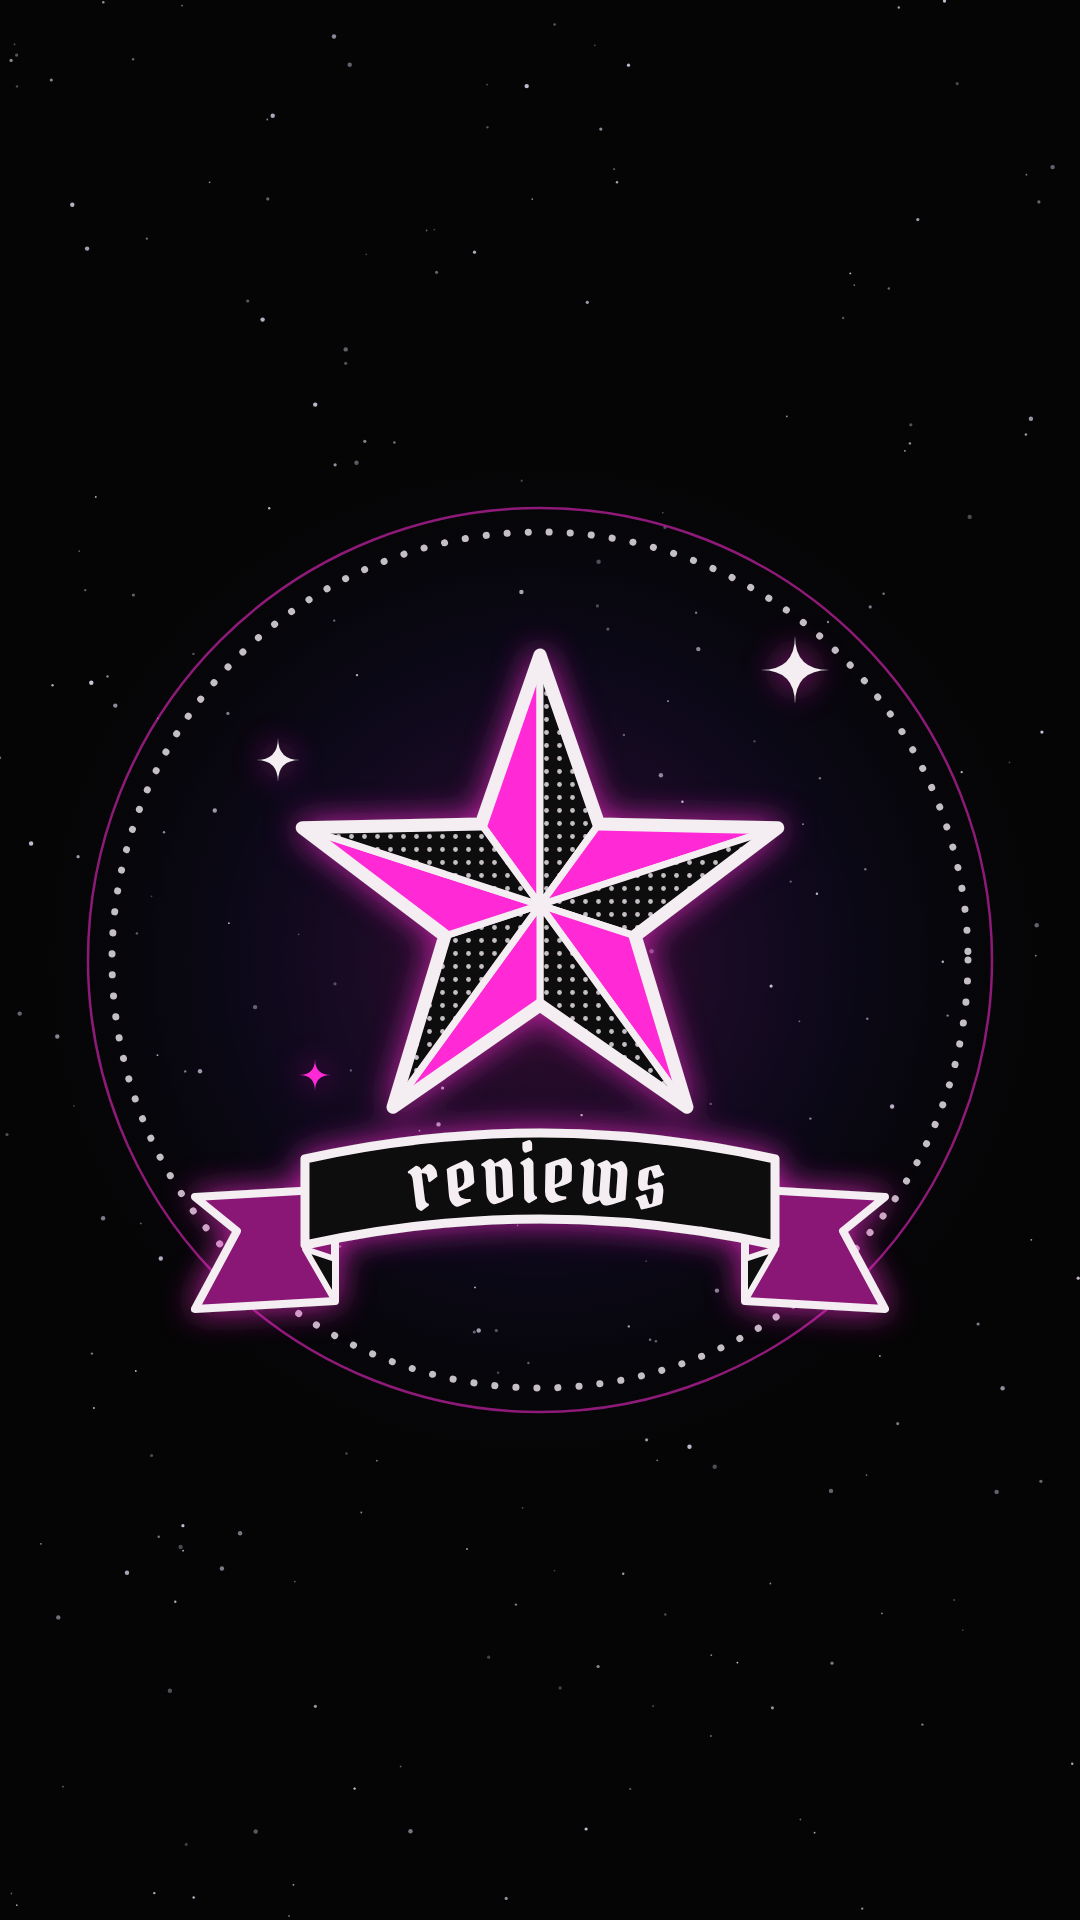
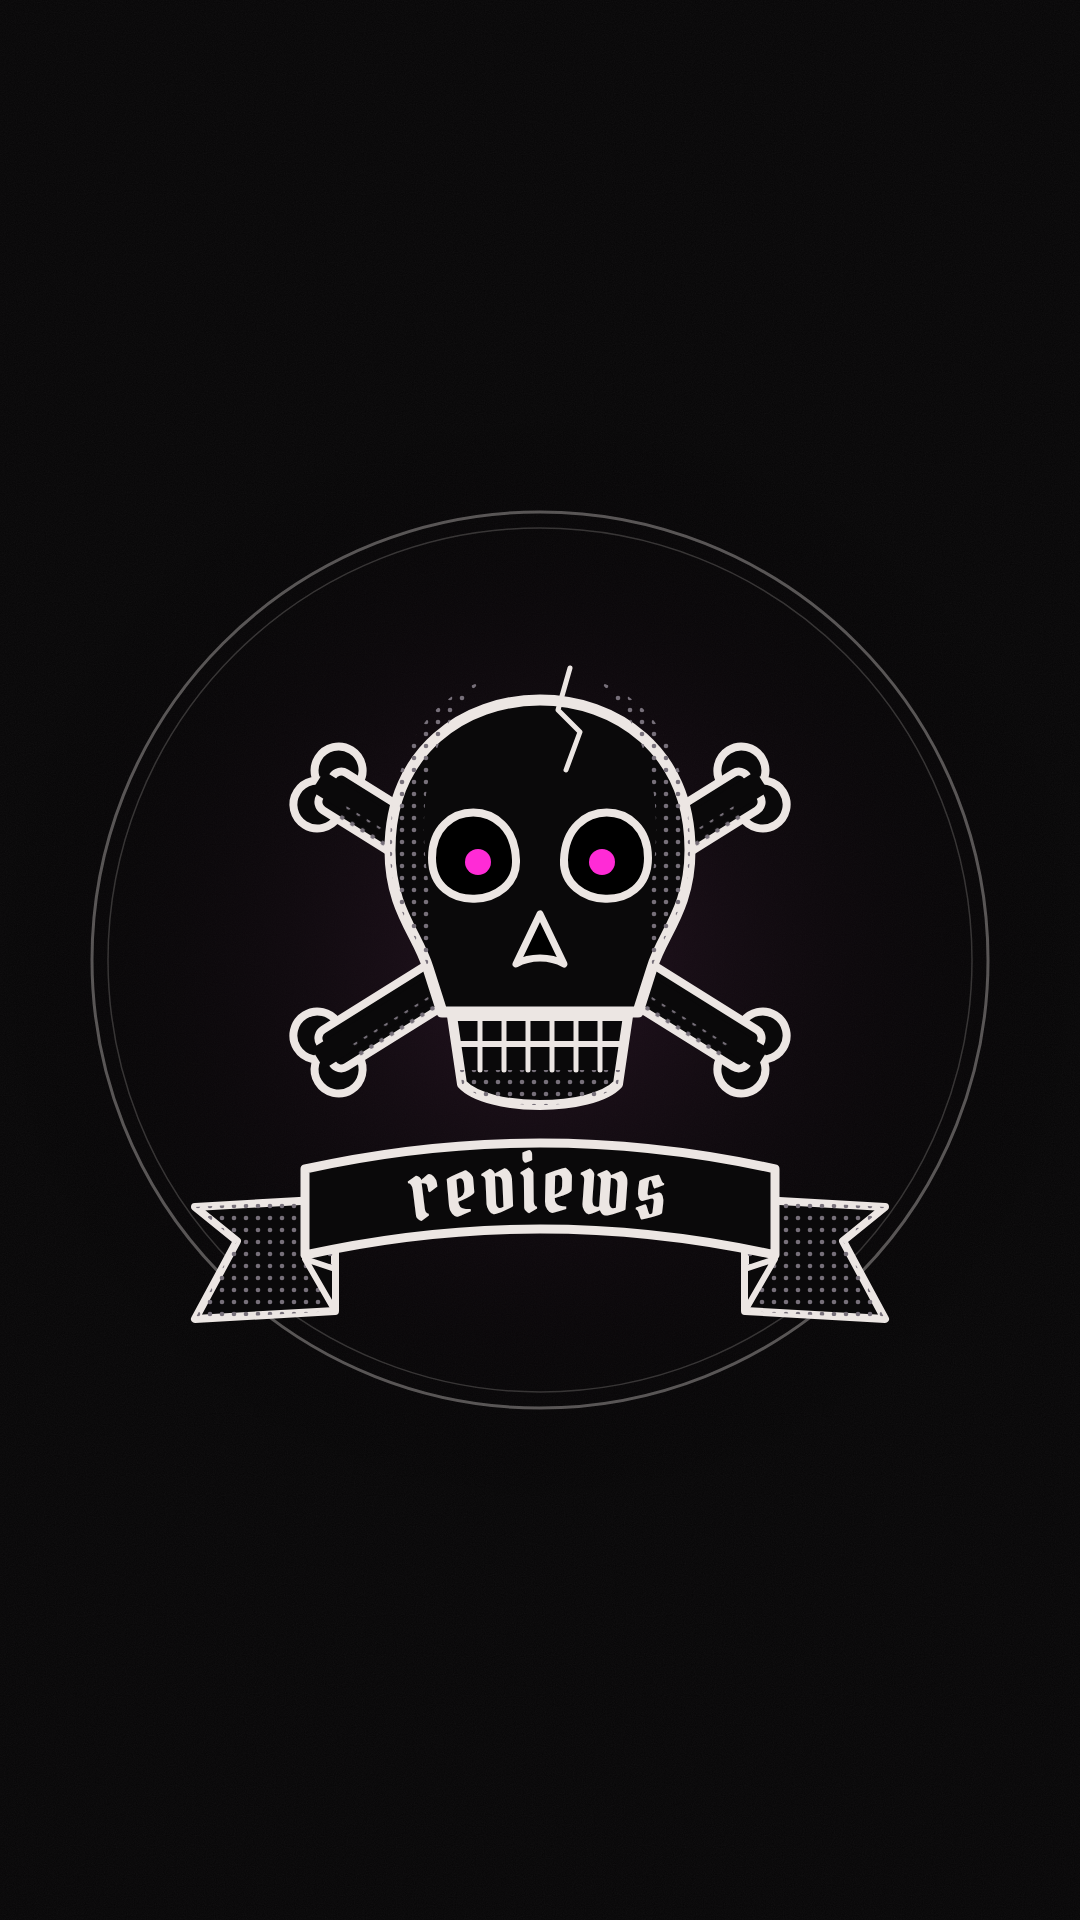
Highlight covers: dark flash set (skull, dagger, fanged snake, bat), no glow or sparkles
Claude-Session: https://claude.ai/code/session_01UxfUGVuyJAH9CatYfRoXCg

diff --git a/brand/highlight-covers/covers.html b/brand/highlight-covers/covers.html
@@ -11,144 +11,146 @@
 </head>
 <body>
 <script>
-// Tattoo-flash highlight covers. Art sits inside the centre circle (radius ~420) that Instagram shows.
-const CREAM = "#f4eef2", PINK = "#ff2bd6", DEEP = "#8a1675", INK = "#0b090c";
-const L = 'stroke="' + CREAM + '" stroke-linejoin="round" stroke-linecap="round"';
-
-function rand(seed) { return () => (seed = (seed * 16807) % 2147483647) / 2147483647; }
-
-function sparkle(x, y, s, fill = CREAM) {
-  return `<path d="M${x},${y - s} Q${x},${y} ${x + s},${y} Q${x},${y} ${x},${y + s} Q${x},${y} ${x - s},${y} Q${x},${y} ${x},${y - s}Z" fill="${fill}"/>`;
-}
+// Dark traditional flash: black & grey linework, stipple shading, small hits of pink. No glow.
+// Art sits inside the centre circle (radius ~420) that Instagram shows.
+const CREAM = "#ece6e3", GREY = "#77707a", PINK = "#ff2bd6", INK = "#0a090a";
+const L = (w) => `stroke="${CREAM}" stroke-width="${w}" stroke-linejoin="round" stroke-linecap="round"`;
+const shade = (d) => `<path d="${d}" fill="url(#dots)"/>`;
 
 function banner(y, text, w, size = 80) {
   const h = 112, x0 = -w / 2, x1 = w / 2, a = 26;
   const tail = (s) => {
     const xe = s * (w / 2), xo = s * (w / 2 + 110);
-    return `<path d="M${xe - s * 30},${y - h / 2 + 30} L${xo},${y - h / 2 + 38} L${xo - s * 42},${y + 16} L${xo},${y + h / 2 + 38} L${xe - s * 30},${y + h / 2 + 30}Z" fill="${DEEP}" ${L} stroke-width="8"/>
-            <path d="M${xe},${y + h / 2 - a + 4} L${xe - s * 30},${y + h / 2 + 30} L${xe - s * 30},${y + h / 2 - 12}Z" fill="${INK}" ${L} stroke-width="6"/>`;
+    return `<path d="M${xe - s * 30},${y - h / 2 + 30} L${xo},${y - h / 2 + 38} L${xo - s * 42},${y + 16} L${xo},${y + h / 2 + 38} L${xe - s * 30},${y + h / 2 + 30}Z" fill="${INK}" ${L(8)}/>
+            ${shade(`M${xe - s * 30},${y - h / 2 + 30} L${xo},${y - h / 2 + 38} L${xo - s * 42},${y + 16} L${xo},${y + h / 2 + 38} L${xe - s * 30},${y + h / 2 + 30}Z`)}
+            <path d="M${xe},${y + h / 2 - a + 4} L${xe - s * 30},${y + h / 2 + 30} L${xe - s * 30},${y + h / 2 - 12}Z" fill="${INK}" ${L(6)}/>`;
   };
   return `${tail(-1)}${tail(1)}
-    <path d="M${x0},${y - h / 2} Q0,${y - h / 2 - a * 2} ${x1},${y - h / 2} L${x1},${y + h / 2 - a} Q0,${y + h / 2 - a * 3} ${x0},${y + h / 2 - a}Z" fill="${INK}" ${L} stroke-width="9"/>
+    <path d="M${x0},${y - h / 2} Q0,${y - h / 2 - a * 2} ${x1},${y - h / 2} L${x1},${y + h / 2 - a} Q0,${y + h / 2 - a * 3} ${x0},${y + h / 2 - a}Z" fill="${INK}" ${L(9)}/>
     <path id="bp${y}${text.length}" d="M${x0 + 20},${y + 14} Q0,${y + 14 - a * 2} ${x1 - 20},${y + 14}" fill="none"/>
     <text font-family="Pirata" font-size="${size}" fill="${CREAM}" letter-spacing="3"><textPath href="#bp${y}${text.length}" startOffset="50%" text-anchor="middle">${text}</textPath></text>`;
 }
 
-function background(seed) {
-  const r = rand(seed);
-  let stars = "";
-  for (let i = 0; i < 240; i++) {
-    const x = -540 + r() * 1080, y = -960 + r() * 1920, s = [0.9, 1.2, 1.6, 2.2][Math.floor(r() * 4)];
-    stars += `<circle cx="${x.toFixed(1)}" cy="${y.toFixed(1)}" r="${s}" fill="#f0e4ff" opacity="${(0.25 + r() * 0.6).toFixed(2)}"/>`;
-  }
-  return `<rect x="-540" y="-960" width="1080" height="1920" fill="#050505"/>
-    <circle r="560" fill="url(#halo)"/>${stars}
-    <circle r="452" fill="none" stroke="${PINK}" stroke-width="2.5" opacity=".55"/>
-    <circle r="428" fill="none" stroke="${CREAM}" stroke-width="7" stroke-dasharray="0.1 21" stroke-linecap="round" opacity=".8"/>`;
+function background() {
+  return `<rect x="-540" y="-960" width="1080" height="1920" fill="#070607"/>
+    <rect x="-540" y="-960" width="1080" height="1920" filter="url(#grain)" opacity=".05"/>
+    <circle r="560" fill="url(#halo)"/>
+    <circle r="448" fill="none" stroke="${CREAM}" stroke-width="3" opacity=".35"/>
+    <circle r="432" fill="none" stroke="${CREAM}" stroke-width="1.5" opacity=".2"/>`;
 }
 
-// ---------------------------------------------------------------- 1. reviews: nautical star
-function nautical() {
-  const cy = -55, R = 250, r = 100;
-  const P = (rad, deg) => [rad * Math.cos(deg * Math.PI / 180), cy + rad * Math.sin(deg * Math.PI / 180)];
-  let s = "";
-  for (let i = 0; i < 5; i++) {
-    const tip = P(R, -90 + i * 72), inR = P(r, -54 + i * 72), inL = P(r, -126 + i * 72);
-    s += `<path d="M0,${cy} L${inL} L${tip}Z" fill="${PINK}" ${L} stroke-width="7"/>`;
-    s += `<path d="M0,${cy} L${tip} L${inR}Z" fill="${INK}" ${L} stroke-width="7"/>`;
-    s += `<path d="M0,${cy} L${tip} L${inR}Z" fill="url(#dots)" opacity=".8"/>`;
-  }
-  const outline = Array.from({ length: 10 }, (_, i) => P(i % 2 ? r : R, -90 + i * 36)).join(" L");
-  s += `<path d="M${outline}Z" fill="none" ${L} stroke-width="13"/>`;
-  s += `<circle cy="${cy}" r="10" fill="${CREAM}"/>`;
-  return s + sparkle(255, -290, 34) + sparkle(-262, -200, 22) + sparkle(-225, 115, 16, PINK) + banner(255, "reviews", 470);
+// ---------------------------------------------------------------- 1. reviews: skull & crossbones
+function bone(angle) {
+  const k = (x, y) => `<circle cx="${x}" cy="${y}" r="24" fill="${INK}" ${L(8)}/>`;
+  return `<g transform="rotate(${angle})">
+    ${k(-250, -20)}${k(-250, 20)}${k(250, -20)}${k(250, 20)}
+    <rect x="-252" y="-22" width="504" height="44" rx="10" fill="${INK}" ${L(8)}/>
+    <rect x="-262" y="-12" width="524" height="24" fill="${INK}"/>
+    ${shade("M-230,6 L230,6 L230,22 L-230,22Z")}
+  </g>`;
+}
+function skull() {
+  let s = `<g transform="translate(0,-40)">${bone(32)}${bone(-32)}`;
+  const cranium = "M-150,-70 C-150,-270 150,-270 150,-70 C150,-10 122,14 112,48 L98,92 L-98,92 L-112,48 C-122,14 -150,-10 -150,-70Z";
+  s += `<path d="${cranium}" fill="${INK}" ${L(11)}/>`;
+  s += shade("M-150,-70 C-150,-170 -110,-220 -60,-238 C-110,-190 -124,-120 -112,-40 C-104,10 -112,40 -112,48 C-122,14 -150,-10 -150,-70Z");
+  s += shade("M150,-70 C150,-170 110,-220 60,-238 C110,-190 124,-120 112,-40 C104,10 112,40 112,48 C122,14 150,-10 150,-70Z");
+  s += `<path d="M30,-252 L18,-210 L40,-188 L26,-150" fill="none" ${L(5)}/>`;
+  // jaw + teeth
+  s += `<path d="M-88,96 L88,96 L78,164 C52,192 -52,192 -78,164Z" fill="${INK}" ${L(10)}/>`;
+  s += shade("M-78,164 C-52,192 52,192 78,164 L80,150 L-80,150Z");
+  s += `<path d="M-84,124 L84,124" ${L(6)}/>`;
+  for (let x = -60; x <= 60; x += 24) s += `<path d="M${x},96 L${x},150" ${L(5)}/>`;
+  // sockets with pink eyes, nose
+  s += `<path d="M-108,-62 C-108,-122 -26,-124 -24,-60 C-22,-12 -108,-4 -108,-62Z" fill="#000" ${L(8)}/>`;
+  s += `<path d="M108,-62 C108,-122 26,-124 24,-60 C22,-12 108,-4 108,-62Z" fill="#000" ${L(8)}/>`;
+  s += `<circle cx="-62" cy="-58" r="13" fill="${PINK}"/><circle cx="62" cy="-58" r="13" fill="${PINK}"/>`;
+  s += `<path d="M0,-6 L-24,44 C-10,36 10,36 24,44Z" fill="#000" ${L(7)}/>`;
+  s += `</g>`;
+  return s + banner(265, "reviews", 470);
 }
 
-// ---------------------------------------------------------------- 2. highlights: flash gem
-function gem() {
-  const yT = -205, yG = -85, cul = 205;
-  const T = [-120, -40, 40, 120].map(x => [x, yT]);
-  const G = [-245, -122, 0, 122, 245].map(x => [x, yG]);
-  const C = [0, cul];
-  const fills = [PINK, INK, "#ff86e8", INK, PINK, INK, "#ff86e8"];
-  const crown = [[G[0], T[0], G[1]], [T[0], T[1], G[1]], [G[1], T[1], G[2]], [T[1], T[2], G[2]],
-                 [G[2], T[2], G[3]], [T[2], T[3], G[3]], [G[3], T[3], G[4]]];
-  let s = "";
-  crown.forEach((t, i) => {
-    s += `<path d="M${t.join(" L")}Z" fill="${fills[i]}" ${L} stroke-width="7"/>`;
-    if (fills[i] === INK) s += `<path d="M${t.join(" L")}Z" fill="url(#dots)" opacity=".75"/>`;
-  });
-  const pav = [[G[0], G[1], C], [G[1], G[2], C], [G[2], G[3], C], [G[3], G[4], C]];
-  const pf = [DEEP, PINK, INK, DEEP];
-  pav.forEach((t, i) => {
-    s += `<path d="M${t.join(" L")}Z" fill="${pf[i]}" ${L} stroke-width="7"/>`;
-    if (pf[i] === INK) s += `<path d="M${t.join(" L")}Z" fill="url(#dots)" opacity=".75"/>`;
-  });
-  s += `<path d="M${[T[0], T[3], G[4], C, G[0]].join(" L")}Z" fill="none" ${L} stroke-width="13"/>`;
-  // shine
-  s += `<path d="M-200,-95 L-170,-95 L-112,40 L-128,48Z" fill="${CREAM}" opacity=".85"/>`;
-  s += `<path d="M-100,-193 L-80,-193 L-96,-120 L-112,-120Z" fill="${CREAM}" opacity=".85"/>`;
-  return s + sparkle(225, -265, 52) + sparkle(-250, -250, 26) + sparkle(255, 60, 20, PINK) + banner(285, "highlights", 540);
+// ---------------------------------------------------------------- 2. highlights: dagger
+function dagger() {
+  let s = `<g transform="translate(0,-78)">`;
+  s += `<circle cx="0" cy="-318" r="30" fill="${INK}" ${L(9)}/>`;
+  s += shade("M-20,-318 A20,20 0 0,0 20,-318Z");
+  s += `<rect x="-28" y="-292" width="56" height="128" rx="8" fill="${INK}" ${L(9)}/>`;
+  for (let y = -278; y < -170; y += 22) s += `<path d="M-26,${y + 16} L26,${y}" ${L(5)}/>`;
+  s += `<path d="M-150,-168 C-128,-190 -60,-176 0,-178 C60,-176 128,-190 150,-168 C128,-142 60,-150 0,-146 C-60,-150 -128,-142 -150,-168Z" fill="${INK}" ${L(9)}/>`;
+  s += `<circle cx="-158" cy="-168" r="18" fill="${INK}" ${L(8)}/><circle cx="158" cy="-168" r="18" fill="${INK}" ${L(8)}/>`;
+  s += `<circle cx="0" cy="-162" r="16" fill="${PINK}" ${L(6)}/>`;
+  const blade = "M-46,-140 L46,-140 L4,232 L-4,232Z";
+  s += `<path d="${blade}" fill="${INK}" ${L(10)}/>`;
+  s += shade("M-46,-140 L0,-140 L0,232 L-4,232Z");
+  s += `<path d="M0,-136 L0,200" ${L(5)}/>`;
+  // a drop of pink
+  s += `<path d="M4,232 C4,250 -14,262 -14,280 C-14,296 22,296 22,280 C22,262 4,250 4,232Z" fill="${PINK}" ${L(6)}/>`;
+  s += `</g>`;
+  return s + banner(300, "highlights", 540);
 }
 
-// ---------------------------------------------------------------- 3. FAQs: snake as a question mark
+// ---------------------------------------------------------------- 3. FAQs: fanged snake as a question mark
 function snake() {
   const body = "M-150,-170 C-150,-335 170,-345 168,-170 C166,-60 18,-58 10,40";
   let s = `<g transform="translate(0,-92) scale(0.8)">`;
-  // tail
-  s += `<path d="M-190,-172 C-194,-110 -168,-82 -118,-74 C-146,-100 -116,-128 -110,-172Z" fill="${INK}" ${L} stroke-width="8"/>`;
-  s += `<path d="${body}" fill="none" stroke="${CREAM}" stroke-width="98" stroke-linecap="butt"/>`;
+  s += `<path d="M-190,-172 C-194,-110 -168,-82 -118,-74 C-146,-100 -116,-128 -110,-172Z" fill="${INK}" ${L(8)}/>`;
+  s += `<path d="${body}" fill="none" stroke="${CREAM}" stroke-width="98"/>`;
   s += `<path d="${body}" fill="none" stroke="${INK}" stroke-width="80"/>`;
-  s += `<path d="${body}" fill="none" stroke="url(#dots)" stroke-width="80" opacity=".7"/>`;
-  s += `<path d="${body}" fill="none" stroke="${PINK}" stroke-width="80" stroke-dasharray="16 30"/>`;
-  s += `<path d="${body}" fill="none" stroke="${CREAM}" stroke-width="5" stroke-dasharray="2 16" stroke-linecap="round" opacity=".9"/>`;
-  // head pointing down
-  s += `<path d="M-50,22 C-62,92 -24,146 10,158 C44,146 82,92 70,22 C40,6 -20,6 -50,22Z" fill="${INK}" ${L} stroke-width="10"/>`;
-  s += `<path d="M-30,40 C-20,70 40,70 50,40" fill="none" stroke="${PINK}" stroke-width="7" stroke-linecap="round"/>`;
-  s += `<ellipse cx="-16" cy="86" rx="13" ry="16" fill="${PINK}"/><ellipse cx="36" cy="86" rx="13" ry="16" fill="${PINK}"/>`;
-  s += `<rect x="-18" y="74" width="4" height="24" rx="2" fill="${INK}"/><rect x="34" y="74" width="4" height="24" rx="2" fill="${INK}"/>`;
-  s += `<path d="M10,160 L10,196 L-8,220 M10,196 L28,220" fill="none" stroke="${PINK}" stroke-width="8" stroke-linecap="round" stroke-linejoin="round"/>`;
-  // the dot
-  s += `<circle cx="10" cy="300" r="46" fill="${INK}" ${L} stroke-width="10"/><circle cx="10" cy="300" r="46" fill="url(#dots)" opacity=".8"/>`;
-  s += `<circle cx="10" cy="300" r="20" fill="${PINK}"/>`;
+  s += `<path d="${body}" fill="none" stroke="url(#dots)" stroke-width="80"/>`;
+  s += `<path d="${body}" fill="none" stroke="${INK}" stroke-width="80" stroke-dasharray="18 28"/>`;
+  s += `<path d="${body}" fill="none" stroke="${CREAM}" stroke-width="4" stroke-dasharray="18 28" stroke-dashoffset="-18" opacity=".7"/>`;
+  // head: wedge, brows, fangs
+  s += `<path d="M-56,18 C-70,92 -28,150 10,164 C48,150 90,92 76,18 C44,0 -24,0 -56,18Z" fill="${INK}" ${L(10)}/>`;
+  s += shade("M-56,18 C-70,92 -28,150 10,164 C-20,130 -40,80 -34,20Z");
+  s += `<path d="M-40,52 L-2,70 M60,52 L22,70" ${L(7)}/>`;
+  s += `<ellipse cx="-16" cy="86" rx="12" ry="14" fill="${PINK}"/><ellipse cx="36" cy="86" rx="12" ry="14" fill="${PINK}"/>`;
+  s += `<rect x="-18" y="76" width="4" height="20" rx="2" fill="${INK}"/><rect x="34" y="76" width="4" height="20" rx="2" fill="${INK}"/>`;
+  s += `<path d="M-10,142 L-4,176 L2,146 M18,146 L24,176 L30,142" fill="${CREAM}" ${L(4)}/>`;
+  s += `<path d="M10,164 L10,200 L-6,222 M10,200 L26,222" fill="none" stroke="${PINK}" stroke-width="7" stroke-linecap="round" stroke-linejoin="round"/>`;
+  // the dot: a little skull
+  s += `<g transform="translate(10,300)"><path d="M-44,0 C-44,-60 44,-60 44,0 C44,22 30,30 28,44 L-28,44 C-30,30 -44,22 -44,0Z" fill="${INK}" ${L(8)}/>
+       <circle cx="-17" cy="0" r="12" fill="#000" ${L(5)}/><circle cx="17" cy="0" r="12" fill="#000" ${L(5)}/>
+       <path d="M-12,44 L-12,56 M0,44 L0,56 M12,44 L12,56" ${L(5)}/></g>`;
   s += `</g>`;
-  return s + sparkle(250, -230, 40) + sparkle(-255, 40, 22) + sparkle(200, 120, 16, PINK) + banner(300, "faqs", 380);
+  return s + banner(300, "faqs", 380);
 }
 
-// ---------------------------------------------------------------- 4. DM: winged love letter
-function feather(len, ang, fill) {
-  const d = `M0,0 C30,-44 ${len - 70},-56 ${len},-22 C${len - 22},-8 ${len - 40},2 ${len - 52},4 C${len - 70},20 40,30 0,0Z`;
-  return `<g transform="rotate(${ang})"><path d="${d}" fill="${fill}" ${L} stroke-width="8"/>
-    ${fill === INK ? `<path d="${d}" fill="url(#dots)" opacity=".75"/>` : ""}
-    <path d="M14,0 C${len * 0.4},-8 ${len * 0.75},-12 ${len - 18},-12" fill="none" stroke="${CREAM}" stroke-width="4" stroke-linecap="round"/></g>`;
+// ---------------------------------------------------------------- 4. DM: bat carrying a letter
+function batWing() {
+  const w = "M34,-96 C120,-210 262,-200 334,-138 C304,-114 294,-82 304,-48 C264,-70 232,-62 218,-30 C188,-62 152,-56 132,-20 C110,-52 70,-52 40,-22Z";
+  return `<path d="${w}" fill="${INK}" ${L(9)}/>
+    ${shade("M34,-96 C120,-210 262,-200 334,-138 C250,-150 150,-130 34,-60Z")}
+    <path d="M40,-80 L304,-48 M40,-80 L218,-30 M40,-80 L132,-20 M40,-80 L250,-170" fill="none" ${L(5)}/>`;
 }
-function letter() {
-  const wing = [[250, -6, PINK], [225, -24, INK], [195, -42, PINK], [160, -60, INK], [120, -78, PINK]].map(([l, a, f]) => feather(l, a, f)).join("");
-  let s = `<g transform="translate(140,-95)">${wing}</g><g transform="translate(-140,-95) scale(-1,1)">${wing}</g>`;
-  s += `<rect x="-165" y="-175" width="330" height="215" rx="14" fill="${INK}" ${L} stroke-width="11"/>`;
-  s += `<path d="M-165,-175 L-165,40 L-55,-52Z" fill="url(#dots)" opacity=".7"/>`;
-  s += `<path d="M-160,36 L-52,-55 M160,36 L52,-55" fill="none" ${L} stroke-width="6" opacity=".8"/>`;
-  s += `<path d="M-160,-170 L0,-52 L160,-170" fill="none" ${L} stroke-width="9"/>`;
-  s += `<g transform="translate(0,-62) scale(1.35)"><path d="M0,-12 C-10,-38 -50,-34 -48,-4 C-46,20 -15,34 0,50 C15,34 46,20 48,-4 C50,-34 10,-38 0,-12Z" fill="${PINK}" ${L} stroke-width="6"/>
-       <path d="M-30,-10 C-28,-20 -18,-22 -12,-18" fill="none" stroke="${CREAM}" stroke-width="5" stroke-linecap="round"/></g>`;
-  return s + sparkle(0, -285, 34) + sparkle(-265, 120, 20) + sparkle(270, 110, 24, PINK) + banner(225, "dm me", 400);
+function bat() {
+  let s = `<g transform="translate(0,-60)">${batWing()}<g transform="scale(-1,1)">${batWing()}</g>`;
+  s += `<path d="M-46,-110 L-58,-200 L-18,-150 C-6,-156 6,-156 18,-150 L58,-200 L46,-110 C66,-70 56,20 0,40 C-56,20 -66,-70 -46,-110Z" fill="${INK}" ${L(10)}/>`;
+  s += shade("M-46,-110 C-66,-70 -56,20 0,40 C-30,10 -40,-60 -22,-120Z");
+  s += `<path d="M-30,-118 L-8,-106 M30,-118 L8,-106" ${L(6)}/>`;
+  s += `<ellipse cx="-20" cy="-96" rx="10" ry="12" fill="${PINK}"/><ellipse cx="20" cy="-96" rx="10" ry="12" fill="${PINK}"/>`;
+  s += `<path d="M-14,-62 L-8,-40 L-2,-62 M2,-62 L8,-40 L14,-62" fill="${CREAM}" ${L(4)}/>`;
+  // feet + letter
+  s += `<path d="M-16,36 L-26,62 M16,36 L26,62" ${L(7)}/>`;
+  s += `<rect x="-110" y="60" width="220" height="140" rx="10" fill="${INK}" ${L(9)}/>`;
+  s += `<path d="M-106,64 L0,138 L106,64" fill="none" ${L(7)}/>`;
+  s += shade("M-106,196 L-30,120 L0,138 L30,120 L106,196Z");
+  s += `<circle cx="0" cy="138" r="20" fill="${PINK}" ${L(6)}/>`;
+  s += `</g>`;
+  return s + banner(255, "dm me", 400);
 }
 
-const covers = [["reviews", nautical, 3], ["highlights", gem, 7], ["faqs", snake, 11], ["dm-for-details", letter, 19]];
-for (const [name, art, seed] of covers) {
+const covers = [["reviews", skull], ["highlights", dagger], ["faqs", snake], ["dm-for-details", bat]];
+for (const [name, art] of covers) {
   document.body.insertAdjacentHTML("beforeend", `
   <svg class="cover" id="${name}" viewBox="-540 -960 1080 1920" xmlns="http://www.w3.org/2000/svg">
     <defs>
-      <radialGradient id="halo"><stop offset="0" stop-color="${PINK}" stop-opacity=".22"/><stop offset=".55" stop-color="#5c2ef2" stop-opacity=".08"/><stop offset="1" stop-color="#000" stop-opacity="0"/></radialGradient>
-      <pattern id="dots" width="13" height="13" patternUnits="userSpaceOnUse"><circle cx="6.5" cy="6.5" r="2.4" fill="${CREAM}"/></pattern>
-      <filter id="neon" x="-30%" y="-30%" width="160%" height="160%">
-        <feGaussianBlur in="SourceAlpha" stdDeviation="16" result="b"/>
-        <feFlood flood-color="${PINK}" flood-opacity=".75"/><feComposite in2="b" operator="in" result="g"/>
-        <feMerge><feMergeNode in="g"/><feMergeNode in="SourceGraphic"/></feMerge>
-      </filter>
+      <radialGradient id="halo"><stop offset="0" stop-color="#2a1626" stop-opacity=".9"/><stop offset="1" stop-color="#000" stop-opacity="0"/></radialGradient>
+      <pattern id="dots" width="12" height="12" patternUnits="userSpaceOnUse"><circle cx="6" cy="6" r="2.3" fill="${GREY}"/></pattern>
+      <filter id="grain"><feTurbulence type="fractalNoise" baseFrequency=".9" numOctaves="2" stitchTiles="stitch"/><feColorMatrix type="saturate" values="0"/></filter>
     </defs>
-    ${background(seed)}
-    <g filter="url(#neon)">${art()}</g>
+    ${background()}
+    ${art()}
   </svg>`);
 }
 </script>
